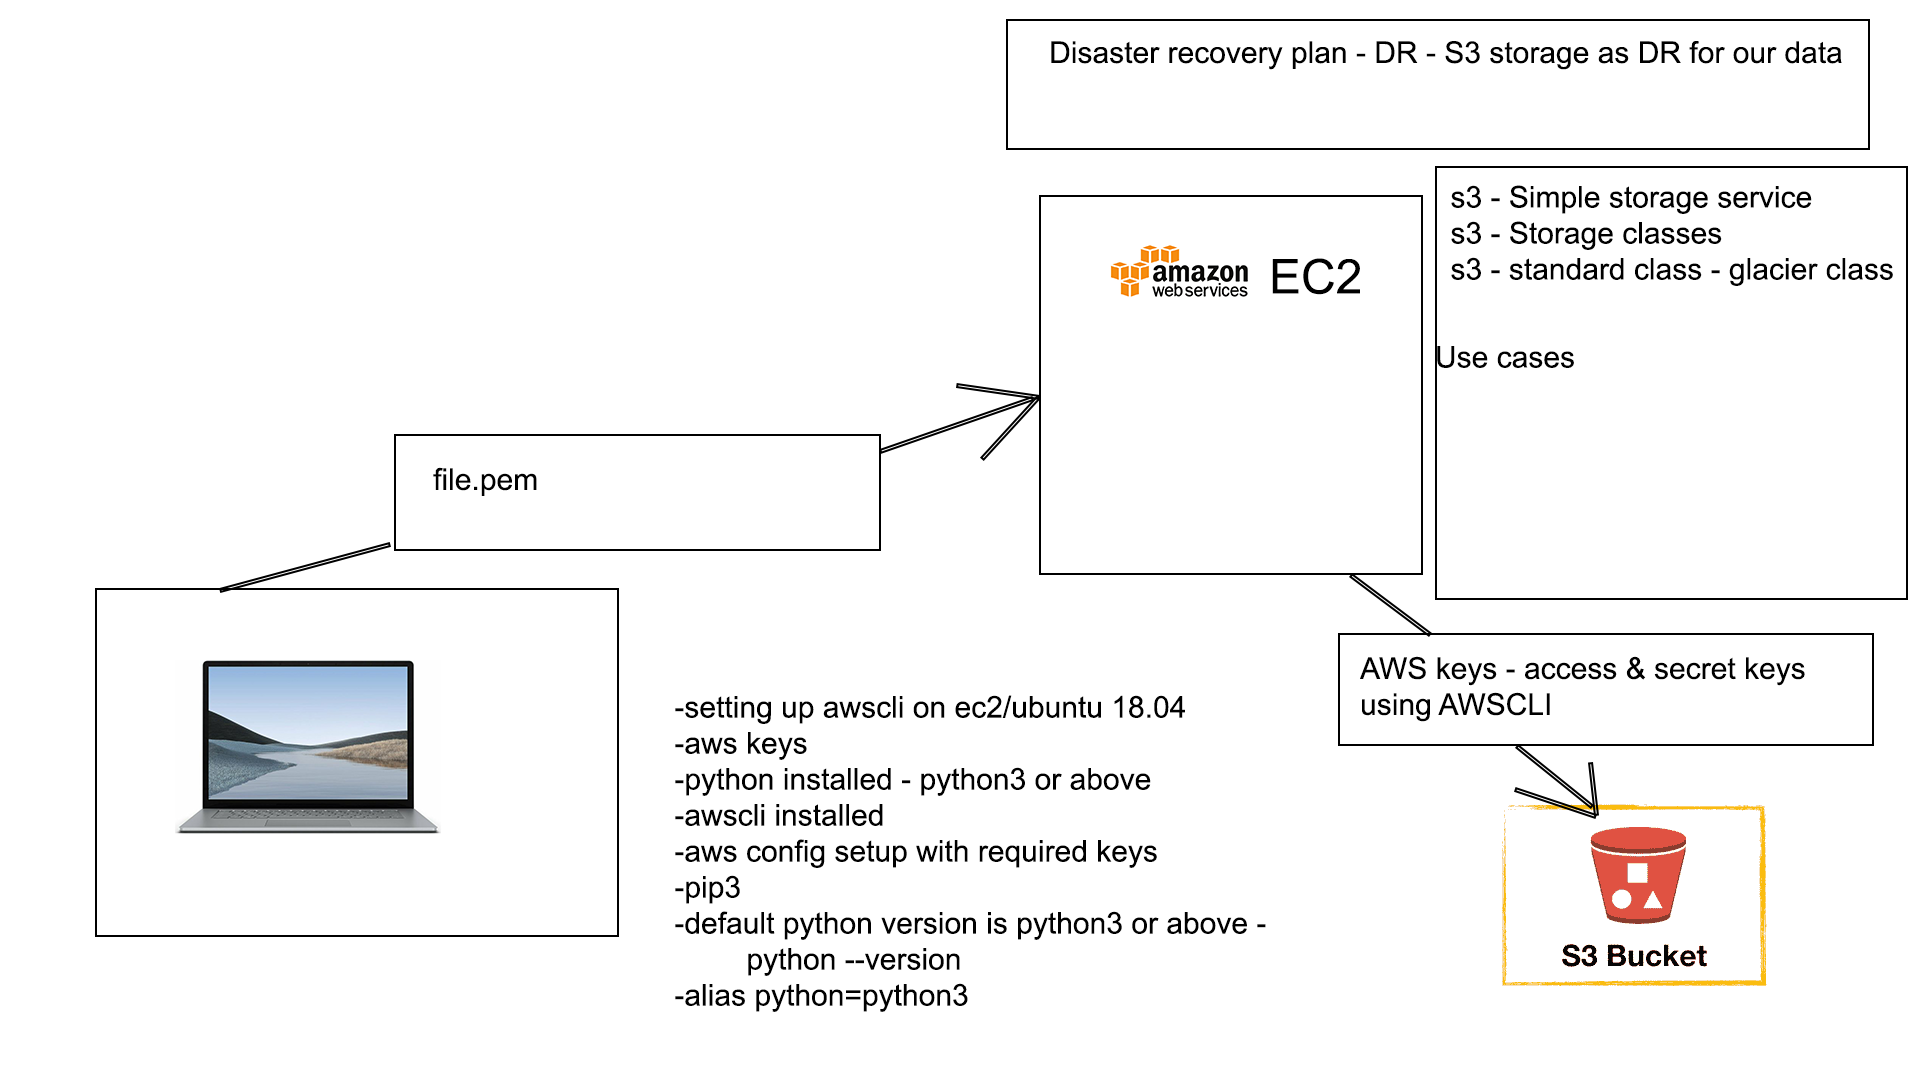
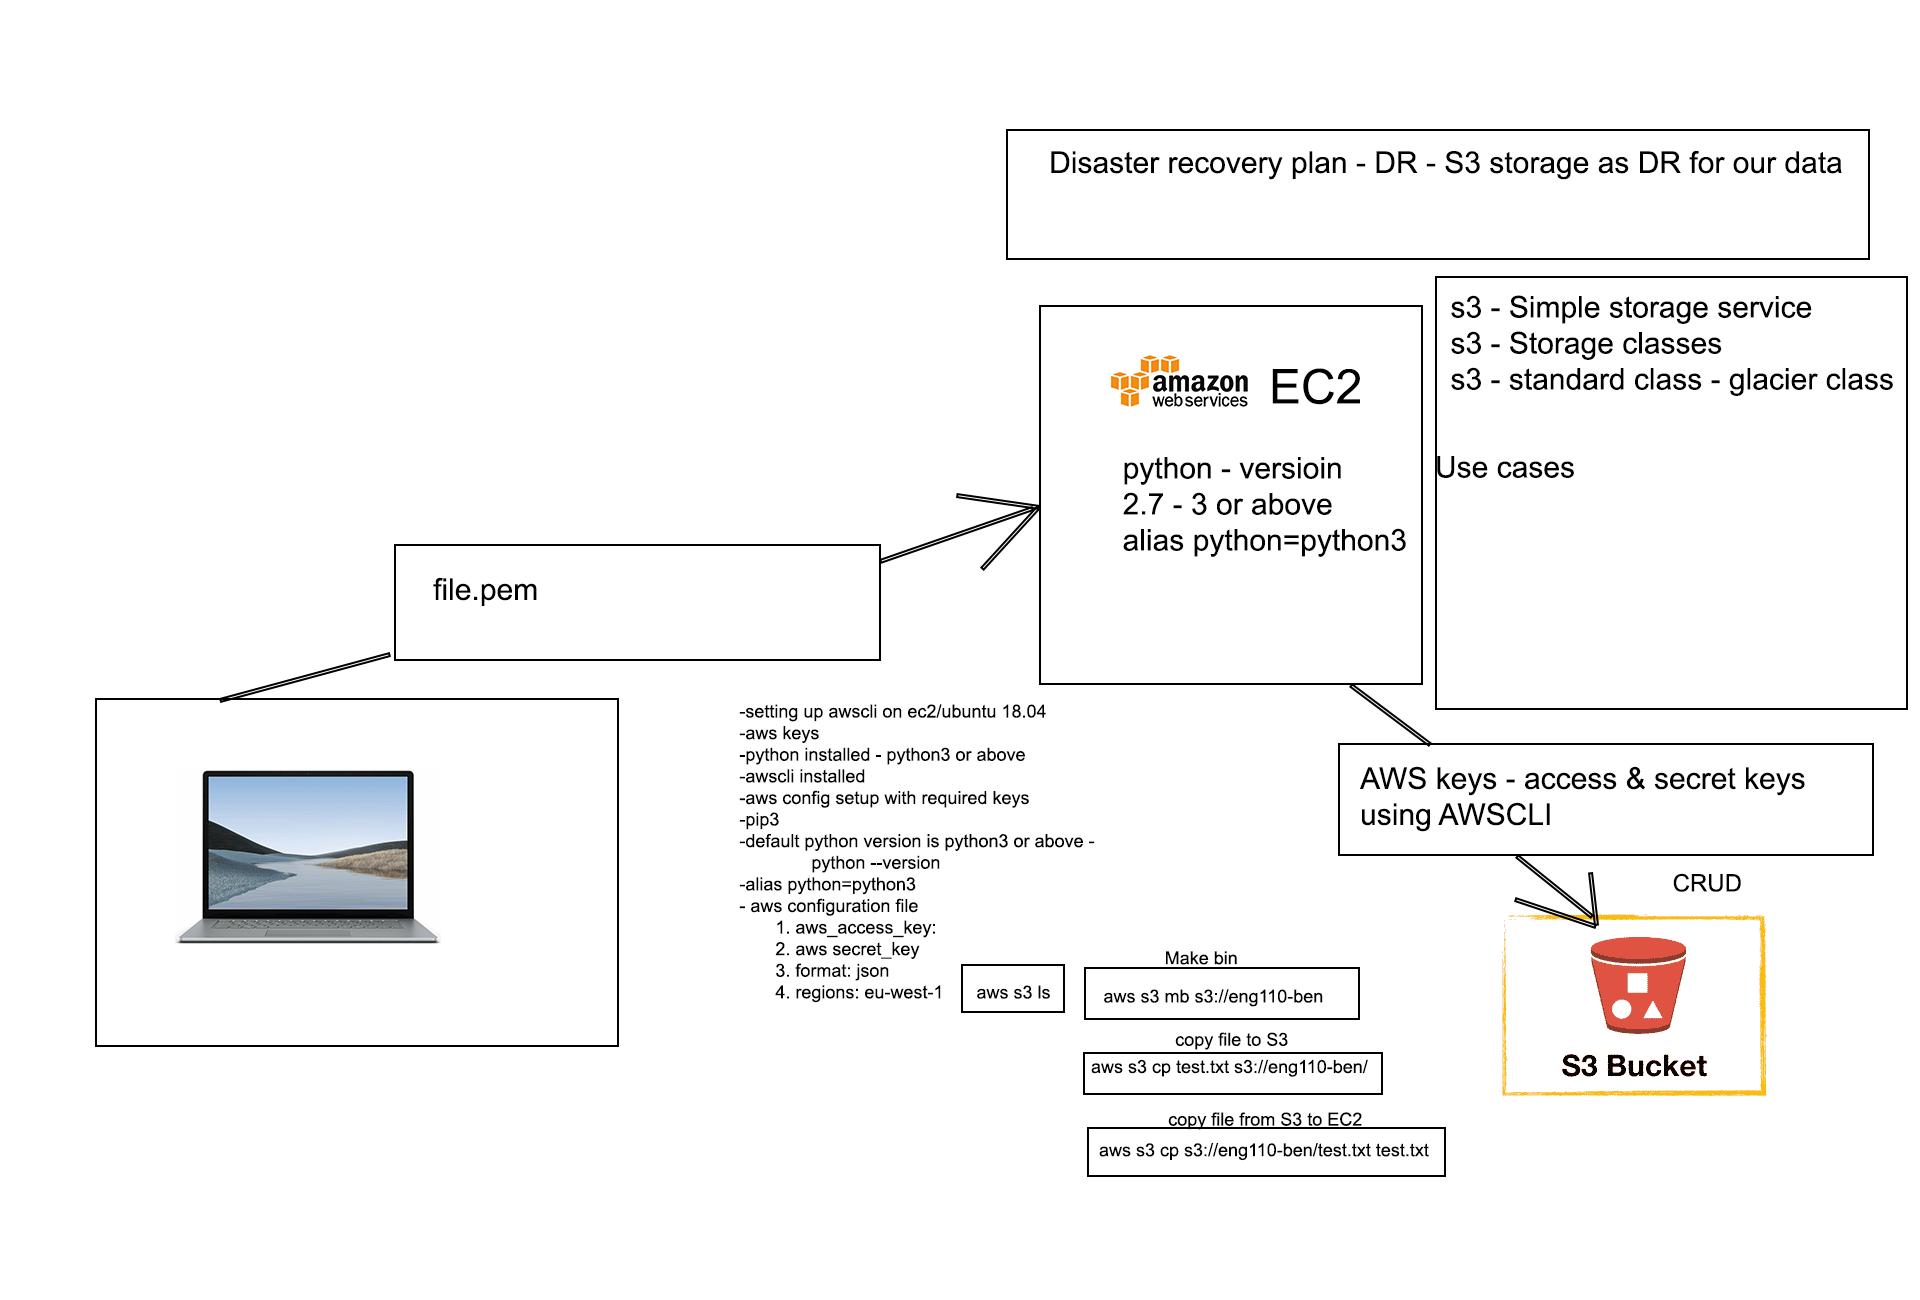
added instructions for python installation, aws configuration, uploading to s3, and downloading from s3

diff --git a/README.md b/README.md
@@ -196,9 +196,30 @@
     - `npm start`
 
 
-### Amazon E3
+### Amazon S3
 ![diagram](AWS_S3.png?raw=true "Amazon S3")
 - Amazon Simple Storage Service (Amazon S3) is an object storage service that offers industry-leading scalability, data availability, security, and performance.  You can store and protect any amount of data for a range of use cases, such as data lakes, websites, mobile applications, backup and restore, archive, enterprise applications, IoT devices, and big data analytics.
+- Install Python
+  - `Python --version`
+  - `sudo apt install python`
+  - `sudo apt install python-pip -y`
+  - `alias python=python3`
+  - `sudo python -m pip install awscli`
+- Configure AWS
+  - `aws configure`
+    - 1 aws_access_key:
+    - 2 aws_secret_key:
+    - 3 format: json
+    - 4 regions: eu-west-1
+    - `aws s3 ls`
+- create bucket in S3
+  - `aws s3 mb s3://eng110-ben`
+- create text document in ec2 instance
+  - `sudo nano test.txt`
+- upload file from ec2 to s3
+  - `aws s3 cp test.txt s3://eng110-ben/`
+- download file from s3 to ec2
+  - `aws s3 cp s3://eng110-ben/test.txt test.txt`
 
 
 
